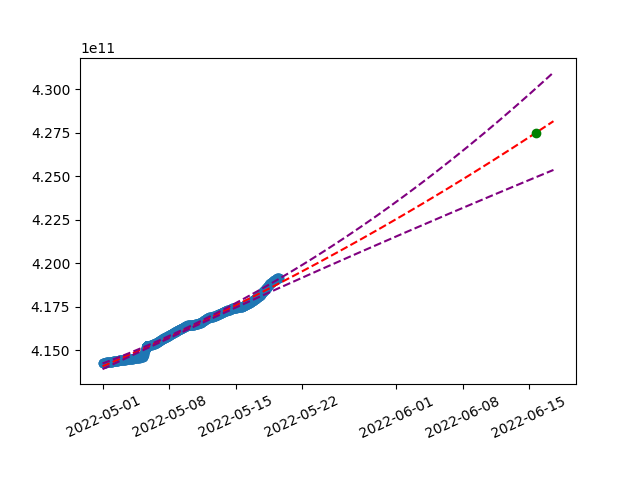
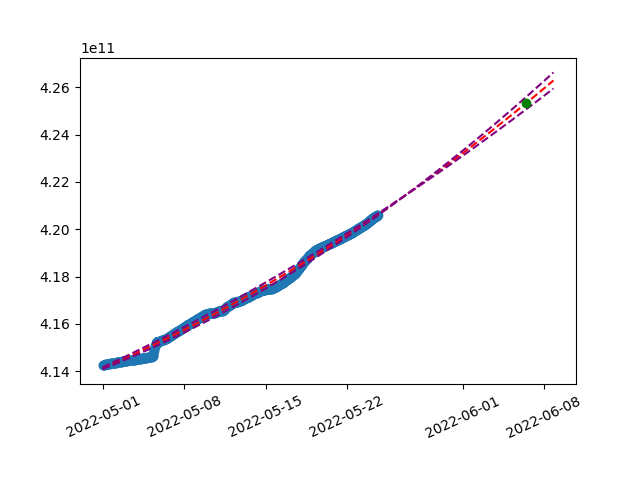
Fix chart function

diff --git a/wenmerge.py b/wenmerge.py
@@ -18,22 +18,27 @@ web3 = Web3(Web3.IPCProvider("/home/mario/.ethereum/ropsten/geth.ipc"))
 #web3 = Web3(Web3.IPCProvider("~/.ethereum/geth.ipc"))
 #web3 = Web3(Web3.HTTPProvider("http://127.0.0.1:8545"))
 
-#If result.csv is not present, data will be crawled based on these parameters:
-start=14603000 #First block to start with 
-granuality=1800 #Step in seconds
-degree=2 #Degree of polynomials
-
 T = lambda blockn: web3.eth.getBlock(blockn).timestamp
 TTD = lambda blockn: web3.eth.getBlock(blockn).totalDifficulty
 latest_block = web3.eth.get_block('latest')['number']
 
+#If result.csv is not present, data will be crawled based on these parameters:
+start=int(latest_block-(50000)) #First block to start with 
+granuality=1800 #Step in seconds
+degree=2 #Degree of polynomials
+tolerance = counter = 1
 
 # Binary search which finds block closest to given timestamp
 def block_by_time(timestamp, prev, next):
+    global counter
+    global tolerance
+
     prev = max(1, prev)
     next = min(latest_block, next)
 
     if prev == next:
+        counter=0
+        tolerance=0       
         return prev
 
     t0, t1 = T(prev), T(next)
@@ -50,9 +55,12 @@ def block_by_time(timestamp, prev, next):
     r = abs(blocks_diff)
     
     #tolerance
-    if r <= 2:
+    if r <= tolerance:
         return(adjustment)
 
+    counter +=1
+    if counter > 10:
+        tolerance+=1
     return block_by_time(timestamp, adjustment - r, adjustment + r)
 
 
@@ -63,6 +71,8 @@ def block_by_ttd(ttd, prev, next):
     next = min(latest_block, next)
 
     if prev == next:
+        counter=0
+        tolerance=0  
         return prev
 
     t0, t1 = TTD(prev), TTD(next)
@@ -78,9 +88,13 @@ def block_by_ttd(ttd, prev, next):
     adjustment = block_predicted + blocks_diff
 
     r = abs(blocks_diff)
-    
-    if r <= 1:
+
+    if r <= tolerance:
         return(adjustment)
+
+    counter +=1
+    if counter > 10:
+        tolerance+=1
 
     return block_by_ttd(ttd, adjustment - r, adjustment + r)
 
@@ -94,17 +108,15 @@ def draw_chart(target_t, target_y, y, t, poly_h, poly_l):
 
     time_diff_avg=int(np.average(np.diff(t)))
     i=(target_t-t[int(len(t)-1)])/time_diff_avg + int(len(t))/10 
-    j=int(len(timestamps))
-
+    j=int(len(t))
     while i > 0:
-        timestamps[j]=10
-        timestamps[j]=(timestamps[j-1]+time_diff_avg)
+        t[j]=t[j-1]+time_diff_avg
         j+=1
         i-=1
     
     conv=np.vectorize(dt.datetime.fromtimestamp) 
-    short_dates=conv(t)
-    long_dates=conv(timestamps)
+    long_dates=conv(t)
+    short_dates=conv(timestamps)
     target_t=conv(target_t)
     
     plt.subplots_adjust(bottom=0.2)
@@ -112,15 +124,15 @@ def draw_chart(target_t, target_y, y, t, poly_h, poly_l):
     ax=plt.gca()
     xfmt = md.DateFormatter('%Y-%m-%d')
     ax.xaxis.set_major_formatter(xfmt)
-
-    plt.plot(long_dates,p(long_dates), color='red', linestyle='dashed')
-    plt.plot(long_dates,ph(long_dates), color='purple', linestyle='dashed')
-    plt.plot(long_dates,pl(long_dates), color='purple', linestyle='dashed')
+    plt.plot(long_dates,p(t), color='red', linestyle='dashed')
+    plt.plot(long_dates,ph(t), color='purple', linestyle='dashed')
+    plt.plot(long_dates,pl(t), color='purple', linestyle='dashed')
 
     plt.scatter(short_dates, y) 
     plt.plot(target_t,target_y/100000,'ro', color='green') 
-    plt.savefig('../../frontend/src/assets/chart.png')
+    plt.savefig('chart.png')
    # plt.show()
+
 
 # Updates data set with latest blocks
 def update(blockn, step, row):
@@ -147,7 +159,10 @@ def update(blockn, step, row):
 
         df = pd.DataFrame(data)
         df.to_csv('result.csv', mode='a', index=False, header=False)
-        blockn=block_by_time((ts+step), int(blockn+block_step), int(latest_block))
+
+        next = min(latest_block, int(blockn+block_step))
+
+        blockn=block_by_time((ts+step), next, latest_block)
         i+=1
 
 # Creates polynomial equation following collected data
@@ -175,7 +190,7 @@ def construct_polynom(switch):
     coeff_h=np.polyfit(t,err_h,degree)
     coeff_l=np.polyfit(t,err_l,degree)
 
-    #Mean squared err
+    #Mean squared error
     MSE=np.average(err)
     #print("MSE: ", MSE)
 

diff --git a/api.py b/api.py
@@ -16,7 +16,7 @@ app.add_middleware(
 
 
 if 'TTD_TARGET' in os.environ:
-	prediction=time.ctime(construct_polynom('1'))
+	prediction=time.ctime(construct_polynom(1))
 	target=(int(os.environ['TTD_TARGET']))
 if 'TIME_TARGET' in os.environ:
 	prediction=time.ctime(construct_polynom('0'))
